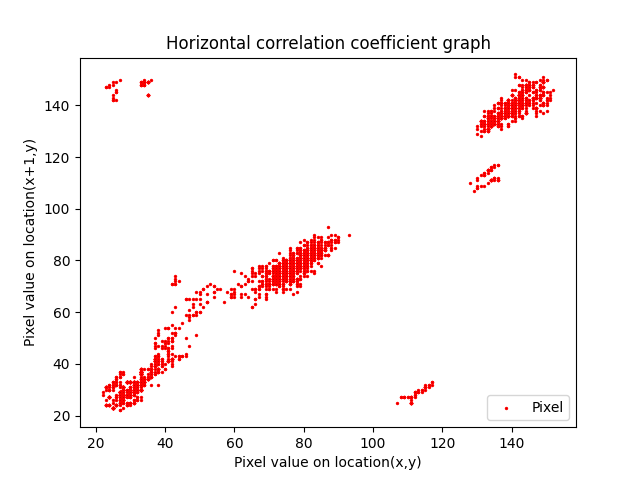
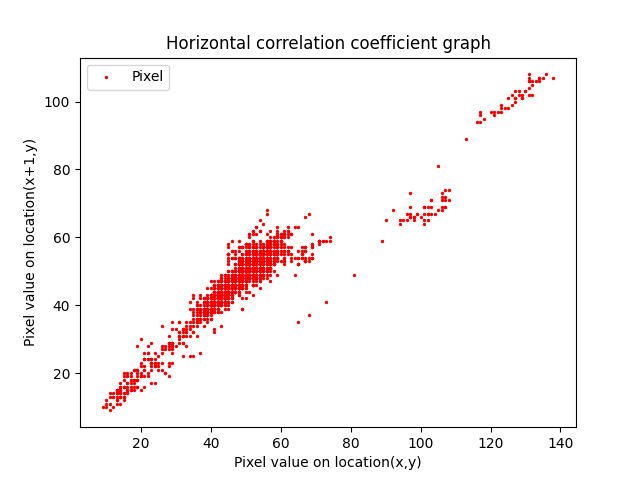
as

diff --git a/Image analysis/Image analysis.py b/Image analysis/Image analysis.py
@@ -15,8 +15,8 @@ from histogram import rgbhistogram,rgbhistogram2
 from npcr import npcrv
 from uaci import rootmeansquareerror,uaci
 
-Dec_image="C:/Users/vishn/PycharmProjects/imo/dtjdtg/Enc images/JPG_8bit/dec_image_jpg_8bit_2.jpg"
-Enc_image="C:/Users/vishn/PycharmProjects/imo/dtjdtg/Enc images/JPG_8bit/enc_image_jpg_8bit_2.jpg"
+Dec_image="C:/Users/vishn/PycharmProjects/imo/dtjdtg/Enc images/JPG_8bit/dec_image_jpg_8bit_1.jpg"
+Enc_image="C:/Users/vishn/PycharmProjects/imo/dtjdtg/Enc images/JPG_8bit/enc_image_jpg_8bit_1.jpg"
 print("RMSE :" + str(rootmeansquareerror(Dec_image,Enc_image)))
 print("NPCR :"+str(npcrv(Dec_image,Enc_image)))
 print("UCAI :" + str(uaci(Dec_image,Enc_image)))
